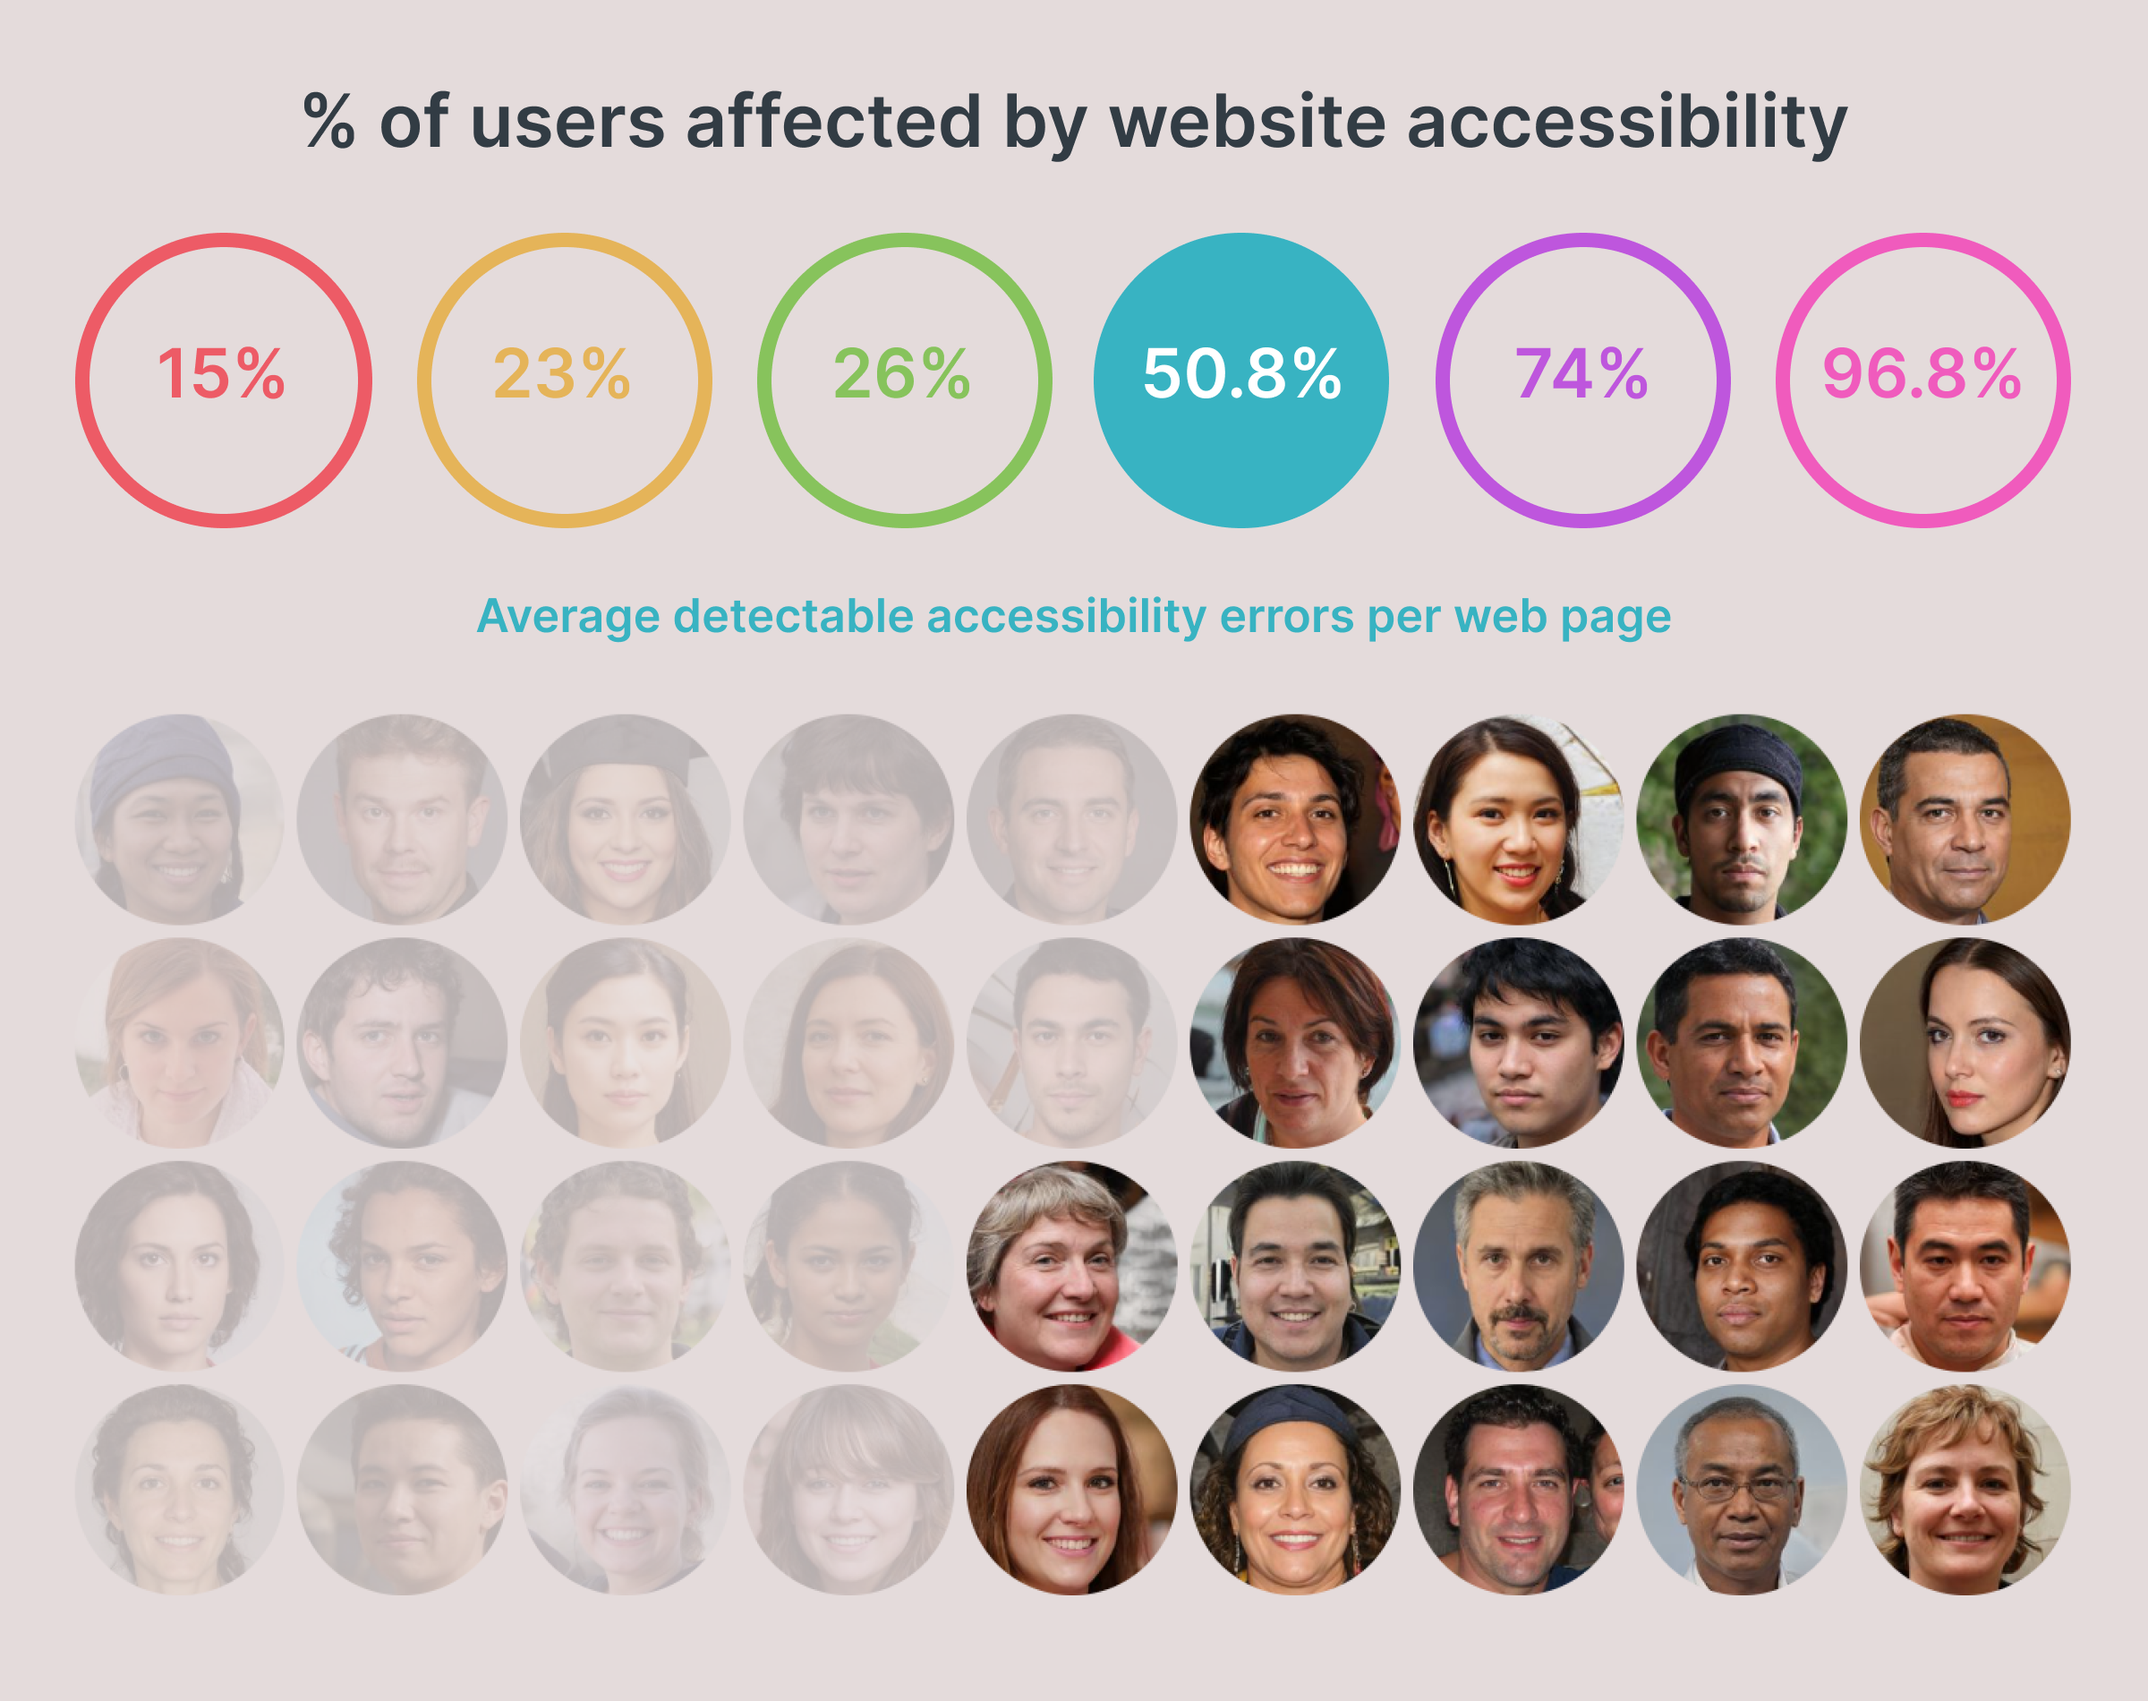
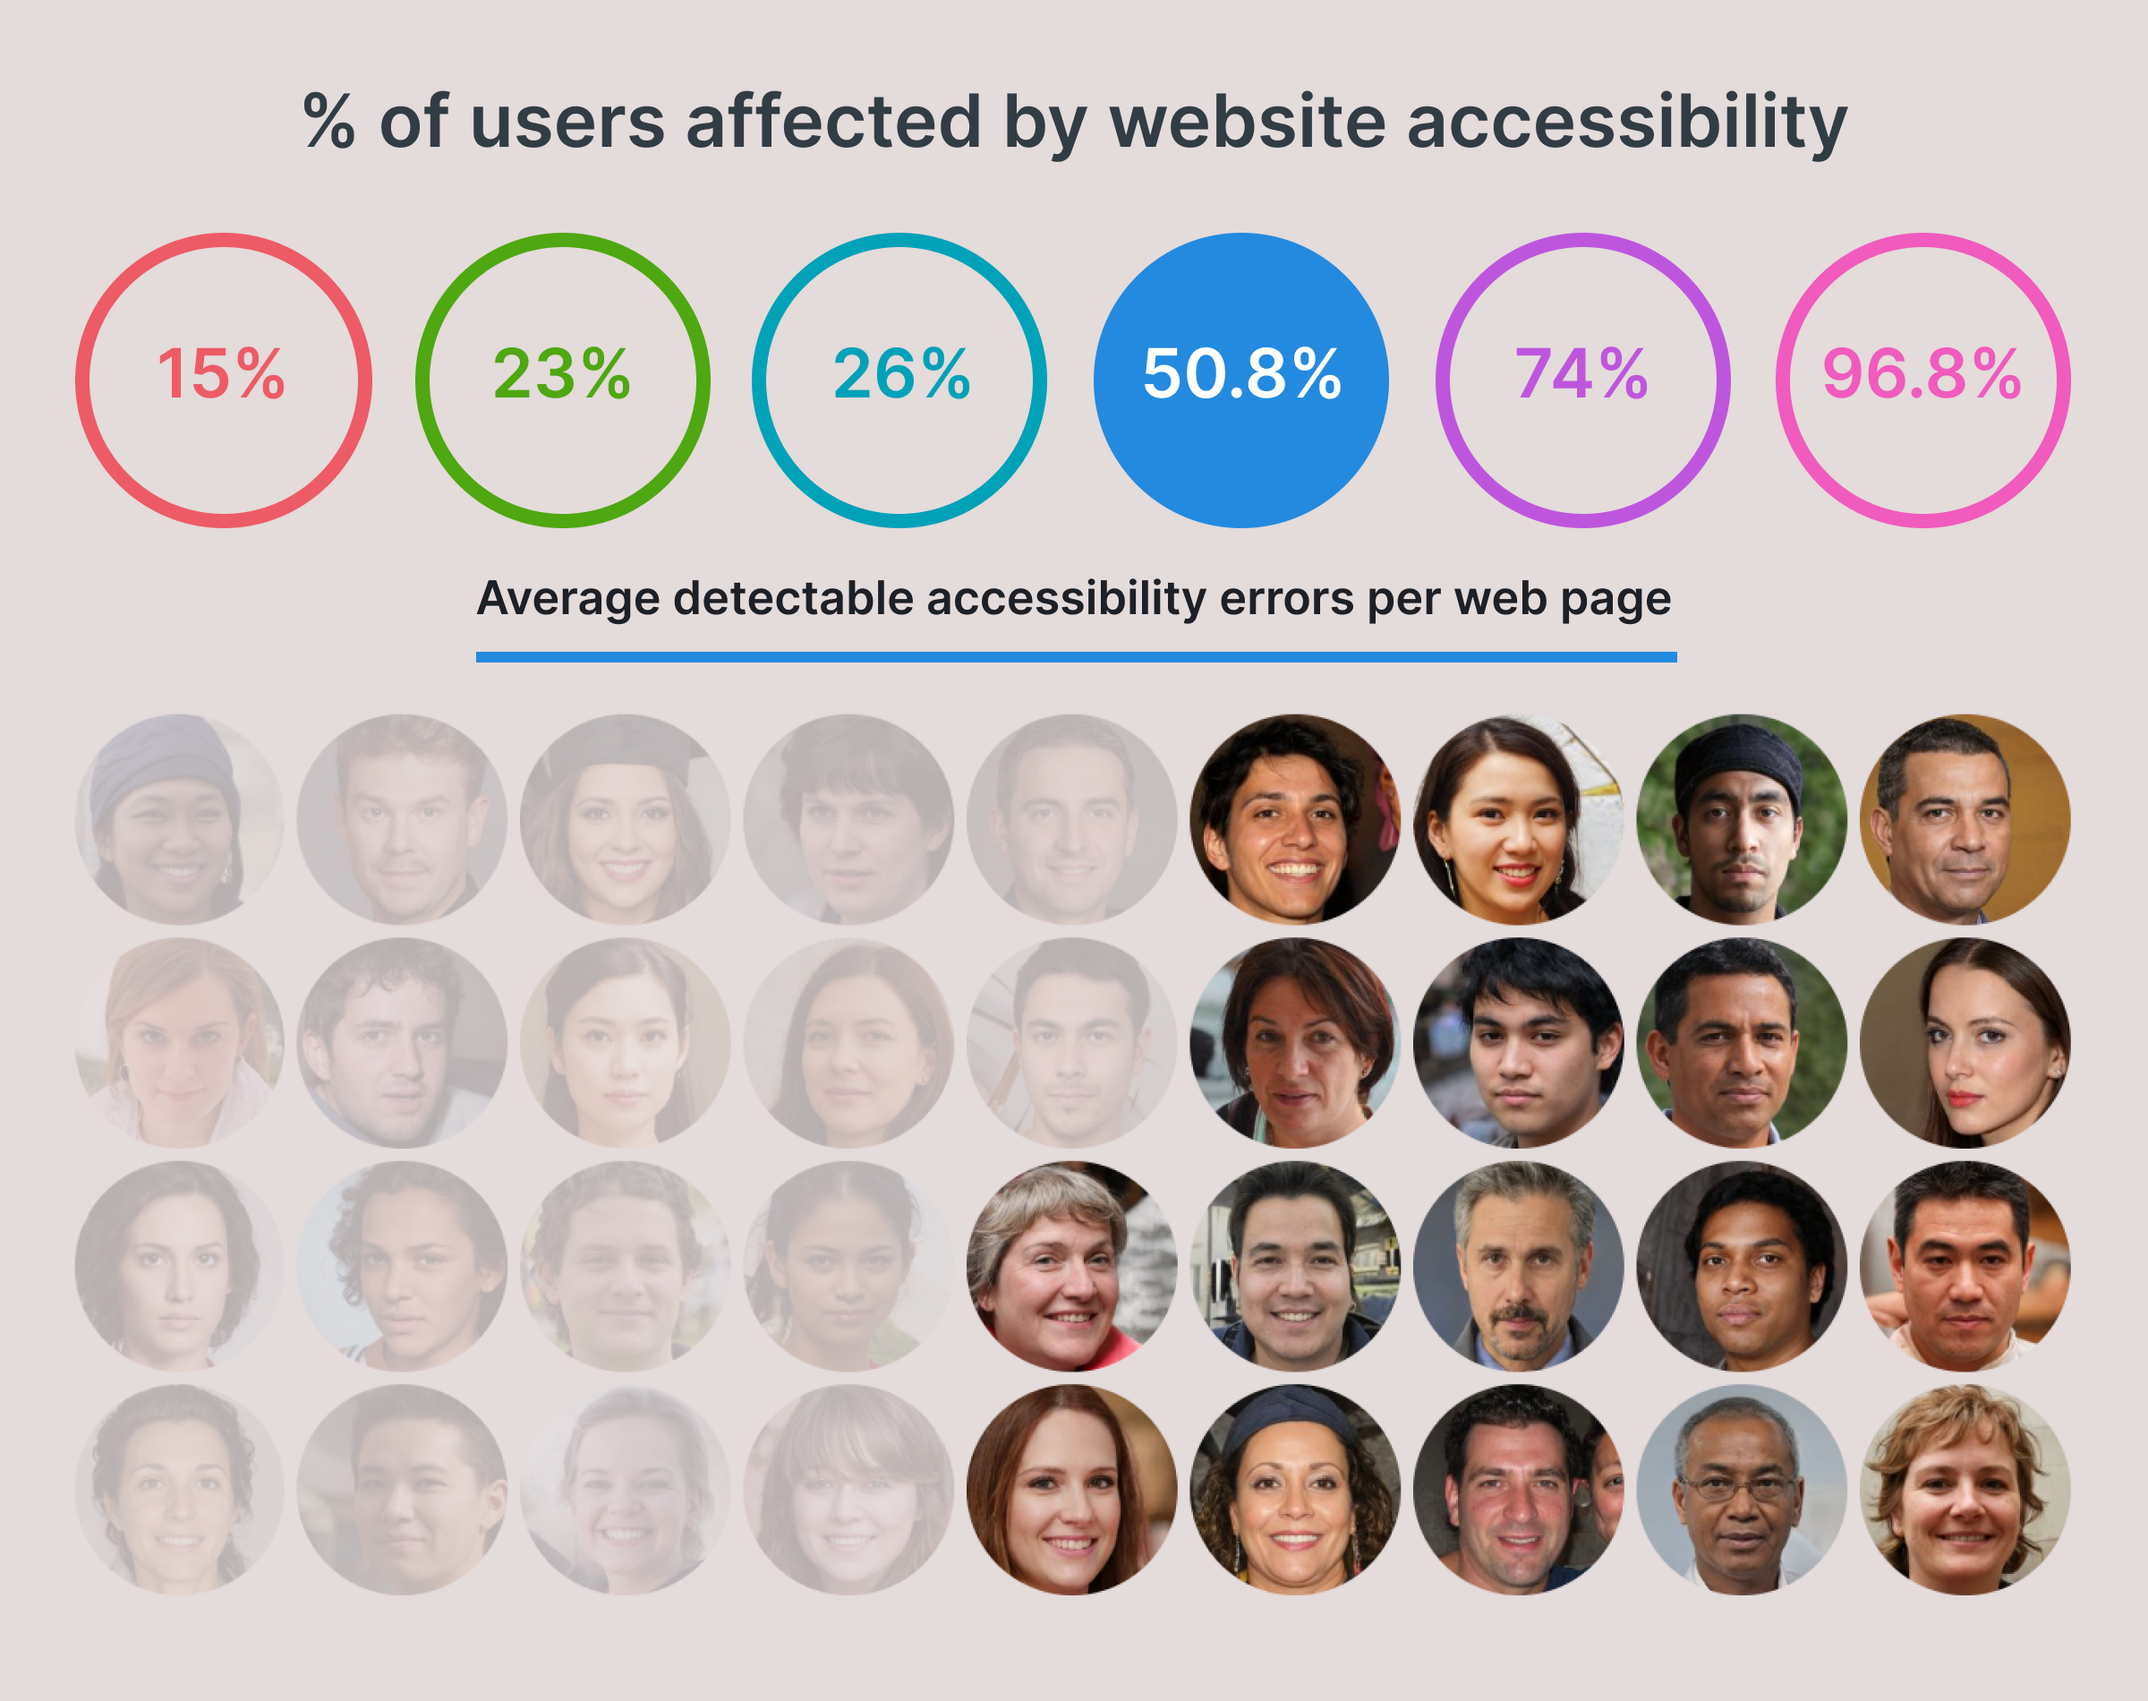
Changes gold to blue in ch7

diff --git a/07-ethical-design/examples/accessibility-data-cards/assets/css/styles.css b/07-ethical-design/examples/accessibility-data-cards/assets/css/styles.css
@@ -18,11 +18,13 @@
     https://stackoverflow.com/a/41265350/441878 
     */
     --rose: 237, 91, 102;
-    --cyan: 56, 179, 194;
-    --green: 135, 195, 92;
-    --blue: 53, 135, 203;
+    --green: 79, 167, 17;
+    --cyan: 0, 162, 184;
+    --blue: 35, 138, 223;
     --purple: 190, 86, 221;
     --magenta: 240, 91, 189;
+    /* these colors are darker variations:display:
+      green, cyan, blue, */
 }
 
 body {

diff --git a/07-ethical-design/assets/css/color.css b/07-ethical-design/assets/css/color.css
@@ -6,9 +6,9 @@
     https://stackoverflow.com/a/41265350/441878 
     */
     --rose: 237, 91, 102;
-    --green: 110, 160, 75;
-    --cyan: 48, 152, 165;
-    --blue: 53, 135, 203;
+    --green: 79, 167, 17;
+    --cyan: 0, 162, 184;
+    --blue: 35, 138, 223;
     --purple: 190, 86, 221;
     --magenta: 240, 91, 189;
     /* these colors are darker variations:display:

diff --git a/07-ethical-design/assets/css/accessibility.css b/07-ethical-design/assets/css/accessibility.css
@@ -5,9 +5,6 @@
     transform: scale(1.1);
 }
 
-.option.active  {
-    /* text-shadow: 1px 1px 2px rgb(0, 0, 0); */
-}
 
 /* show feedback on hover */
 .option:hover {
